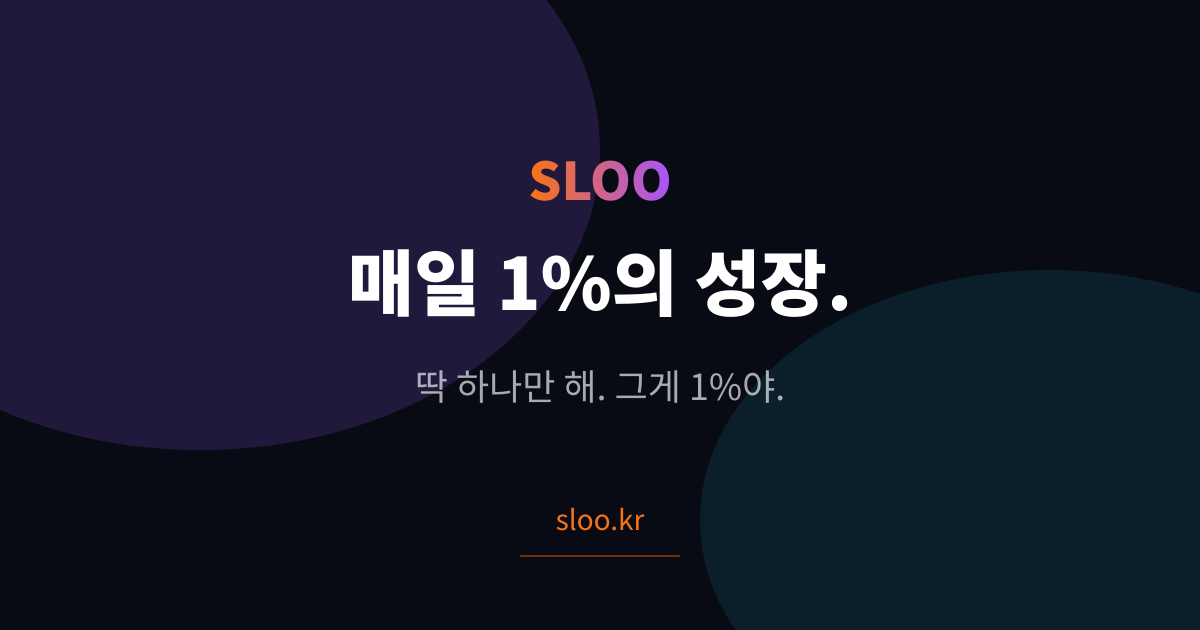
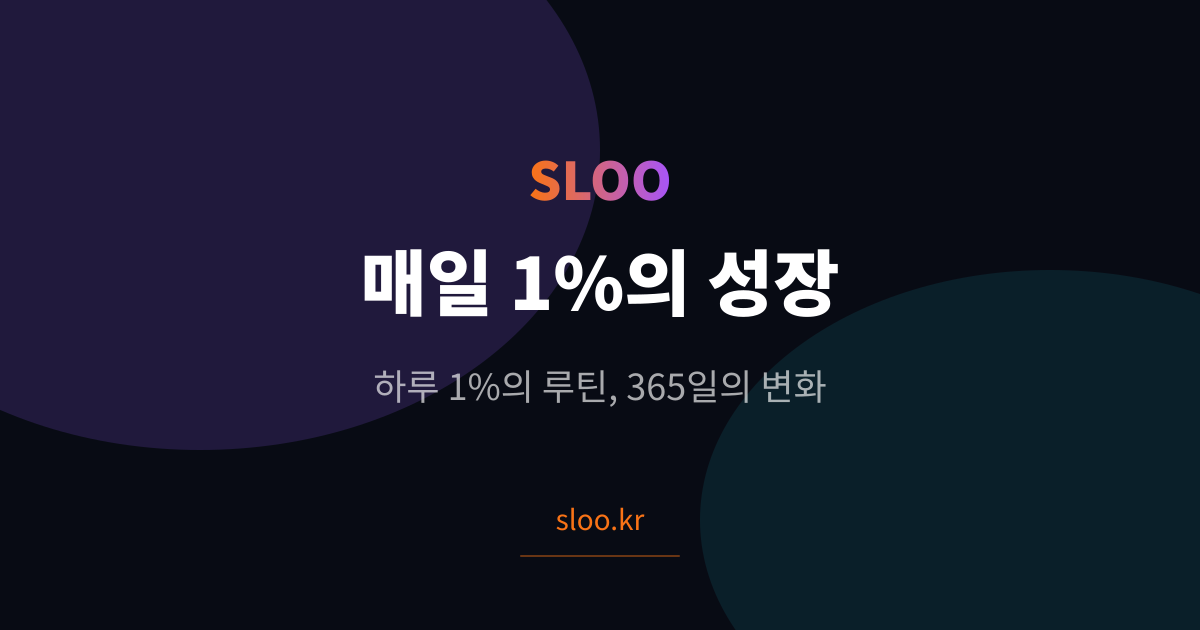
메타 태그·OG 이미지·공유 텍스트 업데이트

Changed region(s): [[0.2775, 0.3921, 0.7092, 0.5127], [0.3083, 0.573, 0.7092, 0.6635]]

diff --git a/index.html b/index.html
@@ -11,14 +11,14 @@
   <meta charset="UTF-8" />
   <meta name="viewport" content="width=device-width, initial-scale=1.0"/>
   <meta name="robots" content="index, follow, max-snippet:-1, max-image-preview:large, max-video-preview:-1">
-  <meta name="description" content="작심삼일 탈출! SLOO는 오늘 에너지·멘탈 상태에 맞는 딱 하나의 최소 행동 미션을 제안합니다. 스트릭 없음, 실패해도 괜찮아요. 번아웃 없이 매일 1% 변화.">
+  <meta name="description" content="하루 1%의 루틴, 365일의 변화">
   <meta name="keywords" content="습관앱,작심삼일,하루루틴,번아웃예방,최소행동,생산성앱,멘탈관리,에너지관리,습관형성,자기관리,지속가능한습관,미션앱,SLOO,슬루,동기부여,자기계발">
   <meta name="author" content="SLOO">
   <meta name="theme-color" content="#080B14">
   <meta name="format-detection" content="telephone=no">
   <link rel="canonical" href="https://sloo.kr/">
-  <meta property="og:title" content="SLOO — 매일 1% 변화 | 작심삼일 탈출 습관 앱">
-  <meta property="og:description" content="오늘 상태에 맞는 딱 하나의 최소 행동 미션. 실패해도 괜찮아요. 스트릭 없는 습관 앱 SLOO.">
+  <meta property="og:title" content="SLOO - 매일 1%의 성장 | 매일 1%씩 쌓아가는 자기관리 서비스">
+  <meta property="og:description" content="하루 1%의 루틴, 365일의 변화">
   <meta property="og:type" content="website">
   <meta property="og:locale" content="ko_KR">
   <meta property="og:url" content="https://sloo.kr/">
@@ -28,8 +28,8 @@
   <meta property="og:image:height" content="630">
   <meta property="og:image:alt" content="SLOO — 매일 1% 변화, 작심삼일 탈출 습관 앱">
   <meta name="twitter:card" content="summary_large_image">
-  <meta name="twitter:title" content="SLOO — 매일 1% 변화 | 작심삼일 탈출 습관 앱">
-  <meta name="twitter:description" content="오늘 상태에 맞는 딱 하나의 최소 행동 미션. 실패해도 괜찮아요. 스트릭 없는 습관 앱 SLOO.">
+  <meta name="twitter:title" content="SLOO - 매일 1%의 성장 | 매일 1%씩 쌓아가는 자기관리 서비스">
+  <meta name="twitter:description" content="하루 1%의 루틴, 365일의 변화">
   <meta name="twitter:image" content="https://sloo.kr/og-image.png">
   <meta name="apple-mobile-web-app-title" content="SLOO">
   <meta name="apple-mobile-web-app-capable" content="yes">
@@ -37,7 +37,7 @@
   <meta name="naver-site-verification" content="YOUR_NAVER_VERIFICATION_CODE">
   <meta name="geo.region" content="KR">
   <meta name="geo.country" content="Korea">
-  <title>SLOO — 매일 1% 변화 | 매일 1%씩 쌓아가는 자기관리 서비스</title>
+  <title>SLOO - 매일 1%의 성장 | 매일 1%씩 쌓아가는 자기관리 서비스</title>
 
   <script type="application/ld+json">{"@context":"https://schema.org","@type":"WebSite","name":"SLOO","url":"https://sloo.kr","description":"매일 1% 변화를 만드는 최소 행동 미션 서비스.","inLanguage":"ko"}</script>
   <script type="application/ld+json">{"@context":"https://schema.org","@type":"WebApplication","name":"SLOO — 매일 1% 변화","url":"https://sloo.kr","description":"오늘 에너지·멘탈 상태에 맞는 최소 행동 미션을 제안하는 습관 형성 서비스.","applicationCategory":"HealthApplication","operatingSystem":"Web","inLanguage":"ko","offers":{"@type":"Offer","price":"0","priceCurrency":"KRW"}}</script>

diff --git a/main.js b/main.js
@@ -1349,19 +1349,19 @@ function toggleDisqus() {
   }
 
   // iOS Safari: navigator.share()는 동기적으로 바로 호출해야 유저 제스처 컨텍스트 유지됨
-  function share(title, text) {
+  function share(title) {
     if (navigator.share) {
-      navigator.share({ title, text, url: SLOO_URL }).catch(() => {});
+      navigator.share({ title, url: SLOO_URL }).catch(() => {});
     } else {
-      navigator.clipboard.writeText(text + ' ' + SLOO_URL).then(showToast).catch(showToast);
+      navigator.clipboard.writeText(SLOO_URL).then(showToast).catch(showToast);
     }
   }
 
   document.getElementById('btn-calc-share').addEventListener('click', () =>
-    share('매일 1%가 만드는 변화', '365일 동안 매일 1%씩 성장하면 37.78배가 된다. 믿어져? →')
+    share('매일 1%가 만드는 변화')
   );
 
   document.getElementById('btn-first-share').addEventListener('click', () =>
-    share('나 오늘부터 매일 1% 시작했어', '매일 딱 하나만. 그게 1%야. 나랑 같이 시작할래? →')
+    share('나 오늘부터 매일 1% 시작했어')
   );
 })();
